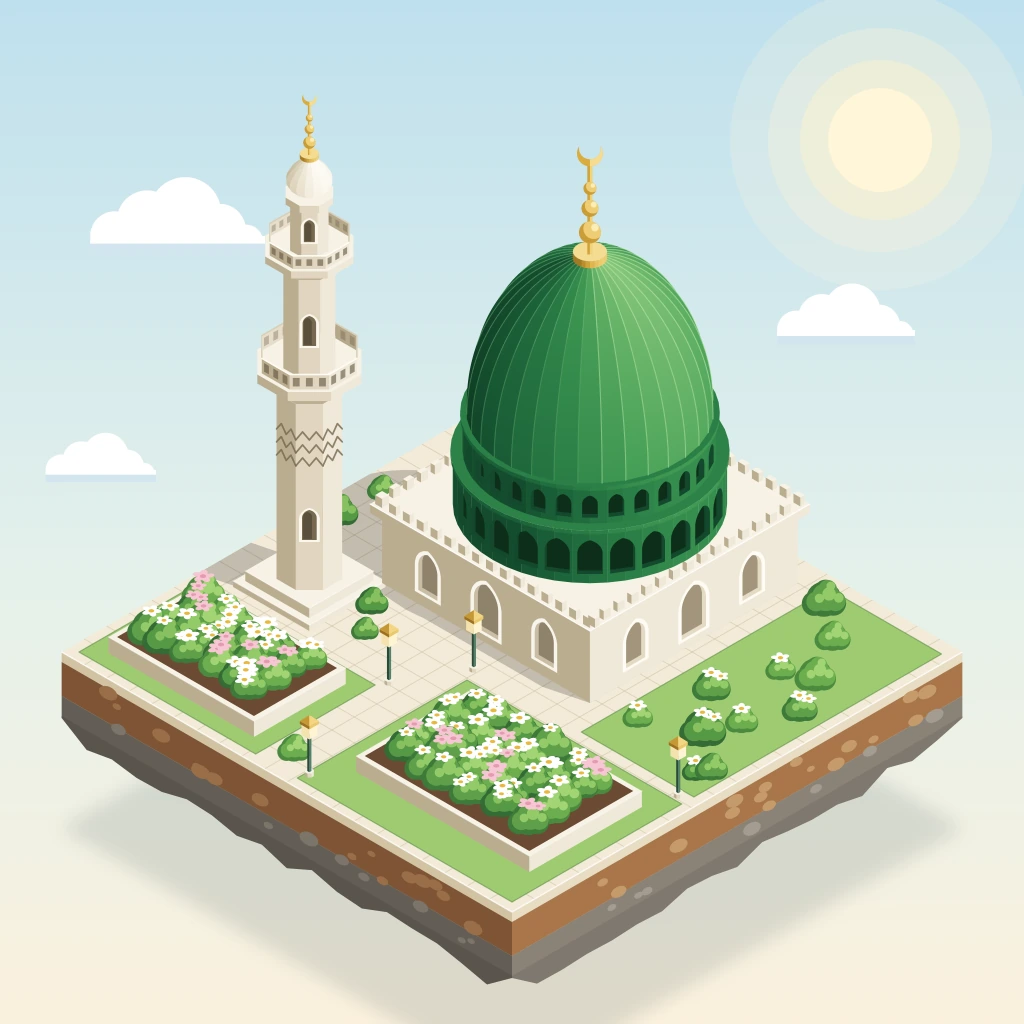
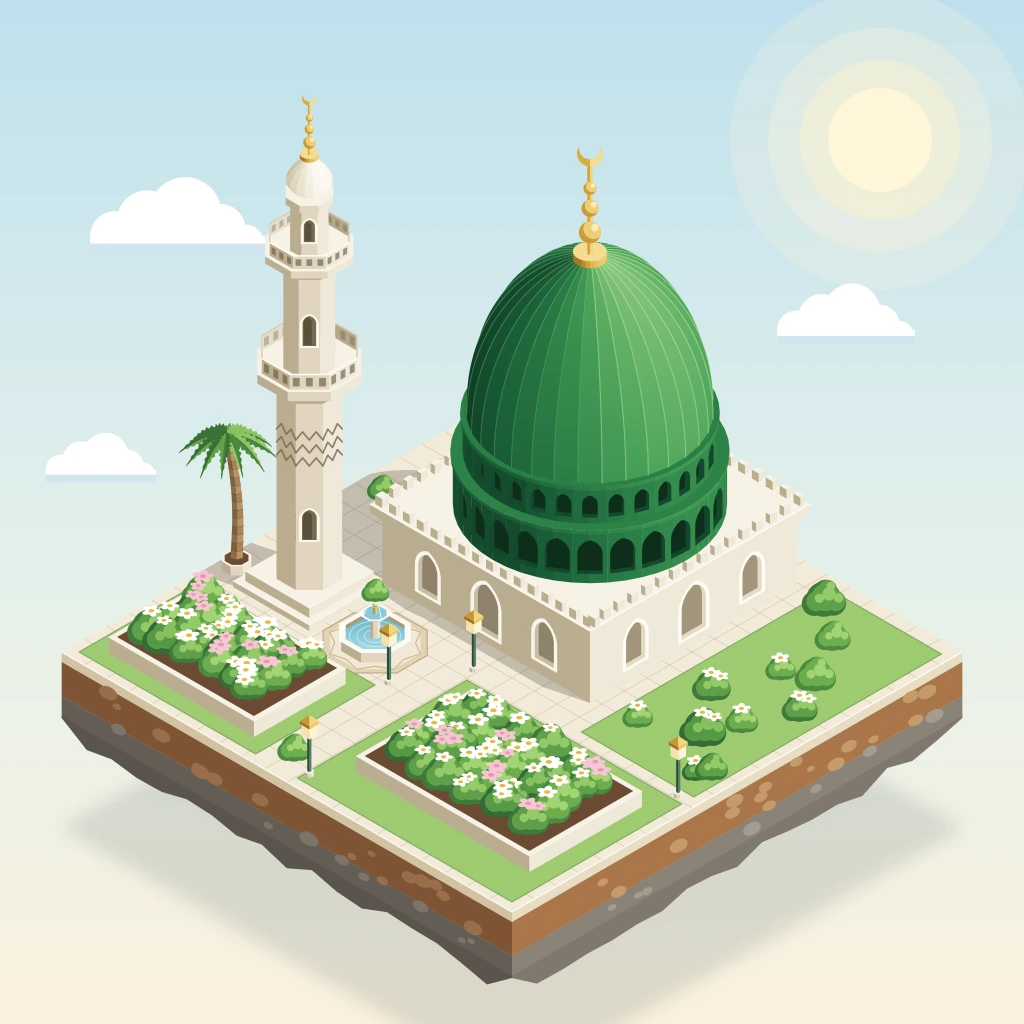
Atölye: gözden geçirme düzeltmelerinin ara kaydı
Claude-Session: https://claude.ai/code/session_01Q8CfoBGMPN7gfLWQYpMs1J

Changed region(s): [[0.3125, 0.5625, 0.4375, 0.6562], [0.1875, 0.4062, 0.2812, 0.5625], [0.3125, 0.4688, 0.3438, 0.5312]]

diff --git a/atolye/stiller/S-025-izometrik/ornek.html b/atolye/stiller/S-025-izometrik/ornek.html
@@ -285,6 +285,8 @@
   const BCX = (BX0 + BX1) / 2, BCY = (BY0 + BY1) / 2;
   const KH = 70;   // kaide yüksekliği
   const MX = 78, MY = 312; // minare ekseni
+  const HX = 16, HY = 334, HH = 132; // avludaki hurma ağacı (minarenin solunda, arkada)
+  const SX = 172, SY = 330;          // avludaki sekizgen şadırvan
 
   // çimen alanları: yolun iki yanında
   cimen([[10, 372, 0], [214, 372], [214, 510], [10, 510]]);
@@ -347,6 +349,25 @@
       for (const [r, z] of [[30, 0], [30, 220], [22, 400]]) mg.push([MX + r * Math.cos(a) + GOLGE[0] * z, MY + r * Math.sin(a) + GOLGE[1] * z]);
     }
     gruplar.push(mg);
+    // hurma (gövde ve taç) ve şadırvan
+    const hg = [];
+    for (let i = 0; i < 12; i++) {
+      const a = (i / 12) * Math.PI * 2;
+      for (const [r, z] of [[12, 0], [12, 8], [4, HH * 0.6], [4, HH]]) hg.push([HX + r * Math.cos(a) + GOLGE[0] * z, HY + r * Math.sin(a) + GOLGE[1] * z]);
+    }
+    gruplar.push(hg);
+    const tg = [];
+    for (let i = 0; i < 16; i++) {
+      const a = (i / 16) * Math.PI * 2;
+      for (const z of [HH - 14, HH + 4]) tg.push([HX - 4 + 46 * Math.cos(a) + GOLGE[0] * z, HY + 2 + 46 * Math.sin(a) + GOLGE[1] * z]);
+    }
+    gruplar.push(tg);
+    const sg = [];
+    for (let i = 0; i < 16; i++) {
+      const a = (i / 16) * Math.PI * 2;
+      for (const [r, z] of [[30, 0], [30, 10], [12, 29], [3, 36]]) sg.push([SX + r * Math.cos(a) + GOLGE[0] * z, SY + r * Math.sin(a) + GOLGE[1] * z]);
+    }
+    gruplar.push(sg);
     golgeCiz(gruplar);
   })();
 
@@ -606,12 +627,115 @@
     doldur([t, f, rr], ALTIN(0.78));
   }
 
+
+  // ------------------------------------------------------------ avlu: hurma ağacı ve şadırvan
+  const sekizgen = (cx, cy, R, z) => { const o = []; for (let i = 0; i < 8; i++) { const a = -Math.PI / 8 + (i * Math.PI) / 4; o.push([cx + R * Math.cos(a), cy + R * Math.sin(a), z]); } return o; };
+  function hurma(x, y, h) {
+    // taş saksı ve toprak
+    prizma(x, y, 0, 9, 13, 8, TAS, { t0: -Math.PI / 8 });
+    doldur(W(sekizgen(x, y, 10.5, 9)), '#6B4A33');
+    // gövde: hafif eğik, boğumlu; ışık sağdan → sağ yarı açık
+    const p0 = P(x, y, 9), p1 = P(x - 5, y + 6, h);
+    const n = 15;
+    for (let i = 0; i < n; i++) {
+      const t0 = i / n, t1 = (i + 1) / n;
+      const at = (t) => [p0[0] + (p1[0] - p0[0]) * t + Math.sin(t * Math.PI) * 5, p0[1] + (p1[1] - p0[1]) * t];
+      const a = at(t0), b = at(t1);
+      const w0 = 6.2 - 2 * t0, w1 = 6.2 - 2 * t1;
+      doldur([[a[0] - w0, a[1]], [a[0], a[1] + 1.5], [b[0], b[1] + 1.5], [b[0] - w1, b[1]]], i % 2 ? '#7E5F3C' : '#8D6C46');
+      doldur([[a[0], a[1] + 1.5], [a[0] + w0, a[1]], [b[0] + w1, b[1]], [b[0], b[1] + 1.5]], i % 2 ? '#A88458' : '#B8936A');
+      // boğum çizgisi
+      cizgi([[b[0] - w1, b[1]], [b[0], b[1] + 1.5], [b[0] + w1, b[1]]], 'rgba(90,62,36,0.55)', 1);
+    }
+    // taç: aşağı sarkan, kenarı tırtıllı yapraklar; yukarı bakanlar önce, öne sarkanlar sonra
+    const C = [p1[0], p1[1] - 2];
+    const yapraklar = [
+      [-150, 44, 0.55], [-118, 40, 0.7], [-82, 36, 0.8], [-52, 42, 0.62], [-22, 48, 0.5],
+      [-178, 48, 0.42], [6, 50, 0.42], [158, 44, 0.5], [28, 42, 0.62], [132, 40, 0.65], [62, 34, 0.75], [100, 32, 0.8],
+    ].map(([d, L, dr]) => ({ a: (d * Math.PI) / 180, L, dr }));
+    yapraklar.sort((p, q) => Math.sin(p.a) - Math.sin(q.a));
+    const yaprak = (f) => {
+      const ux = Math.cos(f.a), uy = Math.sin(f.a) * 0.62;
+      const nokta = (t) => [C[0] + ux * f.L * t, C[1] + uy * f.L * t + f.dr * f.L * t * t];
+      const k = 18, ust = [], alt = [];
+      for (let i = 0; i <= k; i++) {
+        const t = i / k;
+        const q = nokta(t), q2 = nokta(Math.min(1, t + 0.02));
+        let tx = q2[0] - q[0], ty = q2[1] - q[1];
+        const tl = Math.hypot(tx, ty) || 1; tx /= tl; ty /= tl;
+        const w = 7.5 * Math.sin(Math.PI * Math.pow(t, 0.7)) * (1 - 0.3 * t) * (i % 2 ? 1 : 0.55);
+        ust.push([q[0] + ty * w, q[1] - tx * w]);
+        alt.push([q[0] - ty * w, q[1] + tx * w]);
+      }
+      const sag = ux > 0.2;
+      doldur(ust.concat(alt.reverse()), sag ? '#4C8A40' : '#3A7236');
+      // yaprağın üst (ışık alan) yarısı
+      const orta = [];
+      for (let i = 0; i <= k; i++) orta.push(nokta(i / k));
+      const ustYari = uy * 1 + 0 < 0 || Math.abs(ux) > 0.5 ? ust : alt;
+      doldur(ustYari.slice(0, k + 1).concat(orta.reverse()), sag ? '#8CC463' : '#64A24B');
+      cizgi(orta.reverse(), 'rgba(40,80,36,0.55)', 0.9);
+    };
+    const geri = yapraklar.filter((f) => Math.sin(f.a) < -0.2), on = yapraklar.filter((f) => Math.sin(f.a) >= -0.2);
+    geri.forEach(yaprak);
+    // hurma salkımları
+    for (const [dx, dy, r] of [[-7, 7, 3.4], [-2, 9, 3], [4, 7, 3.2], [-4, 11, 2.6], [1, 12, 2.4]]) {
+      ctx.beginPath(); ctx.arc(C[0] + dx, C[1] + dy, r, 0, Math.PI * 2); ctx.fillStyle = '#B5652A'; ctx.fill();
+      ctx.beginPath(); ctx.arc(C[0] + dx + r * 0.3, C[1] + dy - r * 0.3, r * 0.45, 0, Math.PI * 2); ctx.fillStyle = '#E39A4F'; ctx.fill();
+    }
+    on.forEach(yaprak);
+  }
+  function sadirvan(cx, cy) {
+    // zeminde koyu taş sekizgen kuşak (avlu madalyonu) ve yıldız kakma
+    doldur(W(sekizgen(cx, cy, 46, 0)), '#E2D3B3');
+    cizgi(W(sekizgen(cx, cy, 46, 0)), 'rgba(160,140,104,0.7)', 1, true);
+    doldur(W(sekizgen(cx, cy, 40, 0)), '#F1E8D4');
+    const yildiz = [];
+    for (let i = 0; i < 16; i++) { const a = (i * Math.PI) / 8 - Math.PI / 8; const r = i % 2 ? 33 : 40; yildiz.push([cx + r * Math.cos(a), cy + r * Math.sin(a), 0]); }
+    cizgi(W(yildiz), 'rgba(176,150,104,0.65)', 1, true);
+    // havuz duvarı (dış), kenar taşı, iç duvar ve su
+    prizma(cx, cy, 0, 11, 30, 8, TAS, { t0: -Math.PI / 8, ust: false });
+    doldur(W(sekizgen(cx, cy, 31.5, 11)), TAS(0.96));
+    const ac = W(sekizgen(cx, cy, 26, 11));
+    doldur(ac, '#A9987A');
+    ctx.save();
+    yolCiz(ac); ctx.clip();
+    const su = W(sekizgen(cx, cy, 26, 7));
+    const ys = su.map((q) => q[1]);
+    const sg = ctx.createLinearGradient(0, Math.min(...ys), 0, Math.max(...ys));
+    sg.addColorStop(0, '#6FB9CF'); sg.addColorStop(1, '#A9DDE8');
+    doldur(su, sg);
+    // halkalar
+    const m = P(cx, cy, 7);
+    for (const r of [9, 15, 21]) { ctx.beginPath(); ctx.ellipse(m[0], m[1], r * 1.22, r * 0.71, 0, 0, Math.PI * 2); ctx.strokeStyle = 'rgba(235,250,252,0.55)'; ctx.lineWidth = 1; ctx.stroke(); }
+    ctx.restore();
+    cizgi(W([[cx - 31.5 * Math.cos(Math.PI / 8), cy + 31.5 * Math.sin(Math.PI / 8), 11], [cx - 31.5 * Math.sin(Math.PI / 8), cy + 31.5 * Math.cos(Math.PI / 8), 11], [cx + 31.5 * Math.sin(Math.PI / 8), cy + 31.5 * Math.cos(Math.PI / 8), 11], [cx + 31.5 * Math.cos(Math.PI / 8), cy + 31.5 * Math.sin(Math.PI / 8), 11], [cx + 31.5 * Math.cos(Math.PI / 8), cy - 31.5 * Math.sin(Math.PI / 8), 11]]), 'rgba(255,255,255,0.7)', 1.1);
+    // orta ayak, kâse ve altın fıskiye
+    prizma(cx, cy, 7, 24, 4.5, 8, TAS, { t0: -Math.PI / 8 });
+    koni(cx, cy, 24, 30, 4.5, 12.5, 8, TAS, { t0: -Math.PI / 8, amb: 0.3, dif: 0.7 });
+    doldur(W(sekizgen(cx, cy, 12.5, 30)), TAS(0.95));
+    doldur(W(sekizgen(cx, cy, 10, 30)), '#86CADA');
+    prizma(cx, cy, 30, 36, 1.8, 8, ALTIN, { t0: -Math.PI / 8, amb: 0.3, dif: 0.7 });
+    const u = P(cx, cy, 38);
+    kure(u[0], u[1], 2.6);
+    // fıskiyeden kâseye düşen ince su yayları
+    ctx.lineCap = 'round';
+    for (const a of [0.3, 1.9, 3.5, 5.1]) {
+      const e = P(cx + 10.5 * Math.cos(a), cy + 10.5 * Math.sin(a), 30.5);
+      ctx.beginPath(); ctx.moveTo(u[0], u[1] - 1); ctx.quadraticCurveTo((u[0] + e[0]) / 2, u[1] - 7, e[0], e[1]);
+      ctx.strokeStyle = 'rgba(225,246,250,0.9)'; ctx.lineWidth = 1.1; ctx.stroke();
+    }
+  }
+
   // --- arka bahçe (yapının arkasında kalanlar) önce
-  cali(400, 40, 0, 16, 0); cali(440, 70, 0, 13, 1); cali(30, 230, 0, 14, 2);
+  cali(400, 40, 0, 16, 0); cali(440, 70, 0, 13, 1);
   cali(470, 120, 0, 15, 1); cali(30, 180, 0, 11, 0);
+  cali(22, 268, 0, 12, 2);
+  hurma(HX, HY, HH);
   minareTam();
-  cali(138, 300, 0, 12, 2); cali(160, 330, 0, 10, 0);
   yapi();
+  sadirvan(SX, SY);
+  cali(128, 286, 0, 10, 1);
   // sağ çimendeki çalılar ve çiçekler
   {
     // sağ çimende çiçekli çalılar (arkadan öne)

diff --git a/atolye/stiller/S-001-suluboya/ornek.html b/atolye/stiller/S-001-suluboya/ornek.html
@@ -540,23 +540,39 @@
   }
 
   // ============================================================ KAİDE (beyaz taş)
-  const kKai = [286, 688, 834, 806];
-  const KAISET = kume('kaide');
-  yikama(kKai, kapsamBolge(kKai, KAISET, 1.4), {
+  const kKai = [282, 684, 840, 812];
+  const KAISET = kume('kaide', 'pencere');
+  yikama(kKai, gevsek(kKai, KAISET, { r: 3, tasma: 0.45, olcek: 16, kayip: 0.3, tohum: 31, kayipF: (x) => 0.8 * sstep(640, 800, x) }), {
     pig: karis(P.sie, 0.8, P.ros, 0.1),
     yog: (x, y) => 0.13 * clamp(1.35 - (x - 300) / 420, 0.15, 1.2) * sstep(800, 690, x + (nA(4, y / 14) - 0.5) * 60), kenar: 0.7, gran: 0.4, vin: 0.0, tohum: 31,
   });
-  // korniş altı gölgesi ve sol uçtaki gölge
-  yikama(kKai, kapsamBolge(kKai, KAISET, 0.8, (x, y) => (y > 702 && y < 709 + (nB(x / 10, 5) - 0.5) * 4) || x < 312 + (nB(4, y / 9) - 0.5) * 6), {
-    pig: karis(P.ult, 0.5, P.sie, 0.5, P.ros, 0.06), yog: (x, y) => 0.3 * sstep(835, 700, x + (nB(7, y / 6) - 0.5) * 70), kenar: 0.9, gran: 0.65, tohum: 32,
-  });
+  // korniş altı gölgesi: sağa doğru incelip kaybolan, yer yer kesilen fırça izi; sol uçta dikey gölge
+  {
+    const r = SAHNE.rng(32);
+    const A = kapsamCiz(kKai, (c) => {
+      c.lineCap = 'round';
+      let x = 298;
+      while (x < 812) {
+        const xe = Math.min(812, x + 40 + r() * 110);
+        c.globalAlpha = 0.5 + r() * 0.5; c.lineWidth = (4 + r() * 5) * (1 - 0.55 * (x - 300) / 520);
+        c.beginPath(); c.moveTo(x, 706.5 + (r() - 0.5) * 2); c.quadraticCurveTo((x + xe) / 2, 707 + (r() - 0.5) * 3, xe, 706.5 + (r() - 0.5) * 2); c.stroke();
+        x = xe + (r() < 0.4 ? 6 + r() * 20 : -3);
+      }
+      c.globalAlpha = 1;
+    });
+    const L = gevsek(kKai, kume('kaide'), { r: 3, tasma: 0.45, olcek: 14, kayip: 0.4, tohum: 33 }, (x) => x < 314);
+    for (let j = 0; j < A.length; j++) A[j] = Math.max(A[j], L[j]);
+    yikama(kKai, A, {
+      pig: karis(P.ult, 0.5, P.sie, 0.5, P.ros, 0.06), yog: (x, y) => 0.32 * sstep(835, 690, x + (nB(7, y / 6) - 0.5) * 70), kenar: 0.9, gran: 0.65, tohum: 32,
+    });
+  }
   // kaide pencereleri
-  yikama(kKai, kapsamBolge(kKai, kume('pencere'), 0.5), {
-    pig: karis(P.ult, 0.5, P.sie, 0.55, P.ros, 0.2), yog: 0.8, kenar: 0.9, gran: 0.6, tohum: 33,
+  yikama(kKai, lekeler(kKai, SAHNE.kaide.pencereler, 33), {
+    pig: karis(P.ult, 0.5, P.sie, 0.55, P.ros, 0.2), yog: (x, y) => 0.55 + 0.5 * clamp((y - 718) / 60, 0, 1), kenar: 1.0, gran: 0.6, dalga: 0.5, dalgaOlcek: 9, tohum: 33,
   });
   // kaidenin dibinde yere değen gölge
-  yikama(kKai, kapsamAlan(kKai, (x, y) => (y > 790 + (nC(x / 12, 1) - 0.5) * 6 && x > 300 && x < 820 && BOL[y * W + x] === BI.kaide ? 1 : 0)), {
-    pig: karis(P.ult, 0.5, P.sie, 0.5), yog: 0.4, kenar: 0.6, gran: 0.6, tohum: 34,
+  yikama(kKai, gevsek(kKai, kume('kaide', 'zemin', 'yaprak', 'sap'), { r: 3, tasma: 0.4, olcek: 14, kayip: 0.5, tohum: 34 }, (x, y) => y > 788 + (nC(x / 12, 1) - 0.5) * 8 && y < 806 && x > 300 && x < 800), {
+    pig: karis(P.ult, 0.5, P.sie, 0.5), yog: (x) => 0.4 * sstep(820, 640, x), kenar: 0.6, gran: 0.6, tohum: 34,
   });
 
   // ============================================================ MİNARE
@@ -611,7 +627,7 @@
     });
     yikama(kMin, A, { pig: karis(P.sie, 0.6, P.ult, 0.35, P.ros, 0.1), yog: (x) => 0.45 + 0.35 * clamp((310 - x) / 40, 0, 1), kenar: 0.6, kenarR: 1.4, gran: 0.5, tohum: 48 });
   }
-  yikama(kMin, kapsamBolge(kMin, kume('pencere'), 0.4), { pig: karis(P.ult, 0.5, P.sie, 0.55, P.ros, 0.2), yog: 0.85, kenar: 0.9, gran: 0.6, tohum: 49 });
+  yikama(kMin, lekeler(kMin, SAHNE.minarePencereleri, 49), { pig: karis(P.ult, 0.5, P.sie, 0.55, P.ros, 0.2), yog: (x, y) => 0.6 + 0.35 * ((y - 222) % 130 > 18 ? 1 : 0.5), kenar: 1.0, gran: 0.6, tohum: 49 });
 
   // ============================================================ ALEMLER (altın)
   for (const [cx, kutu] of [[560, [534, 180, 586, 312]], [300, [282, 76, 318, 152]]]) {
